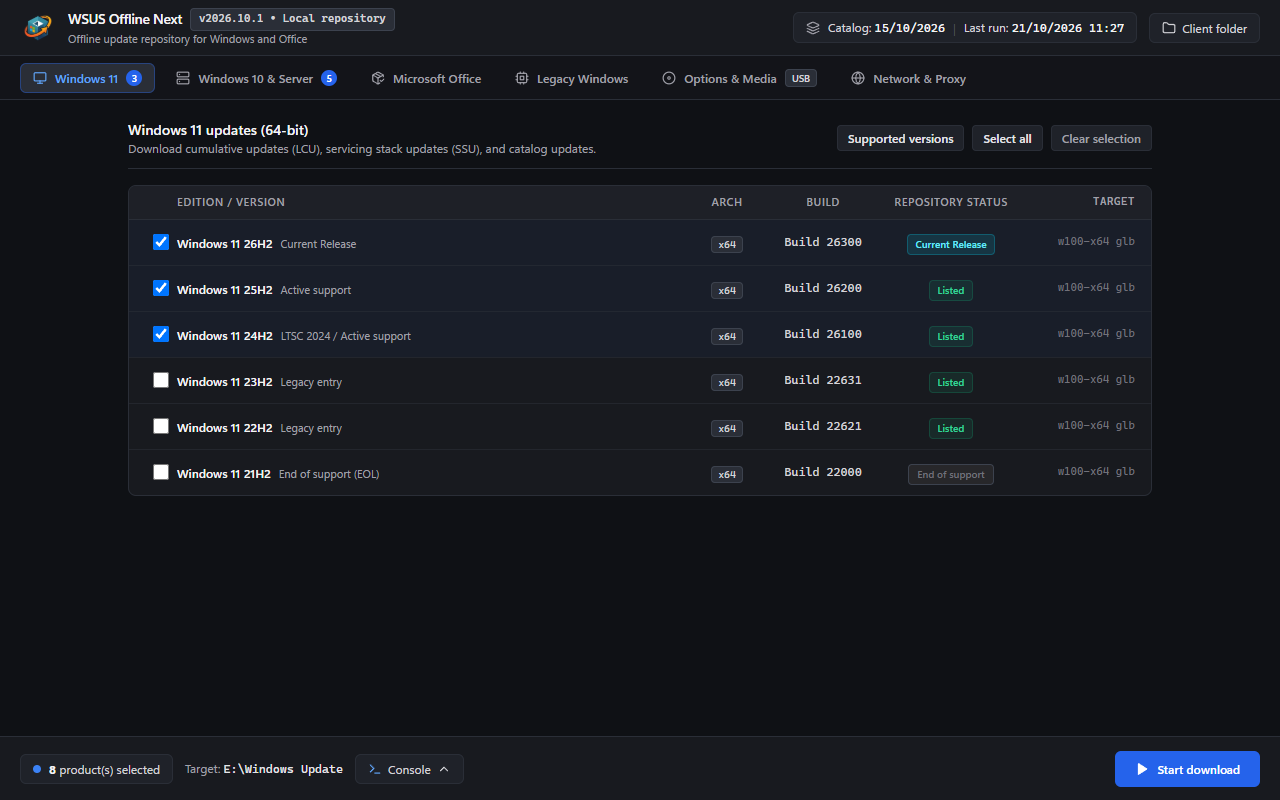
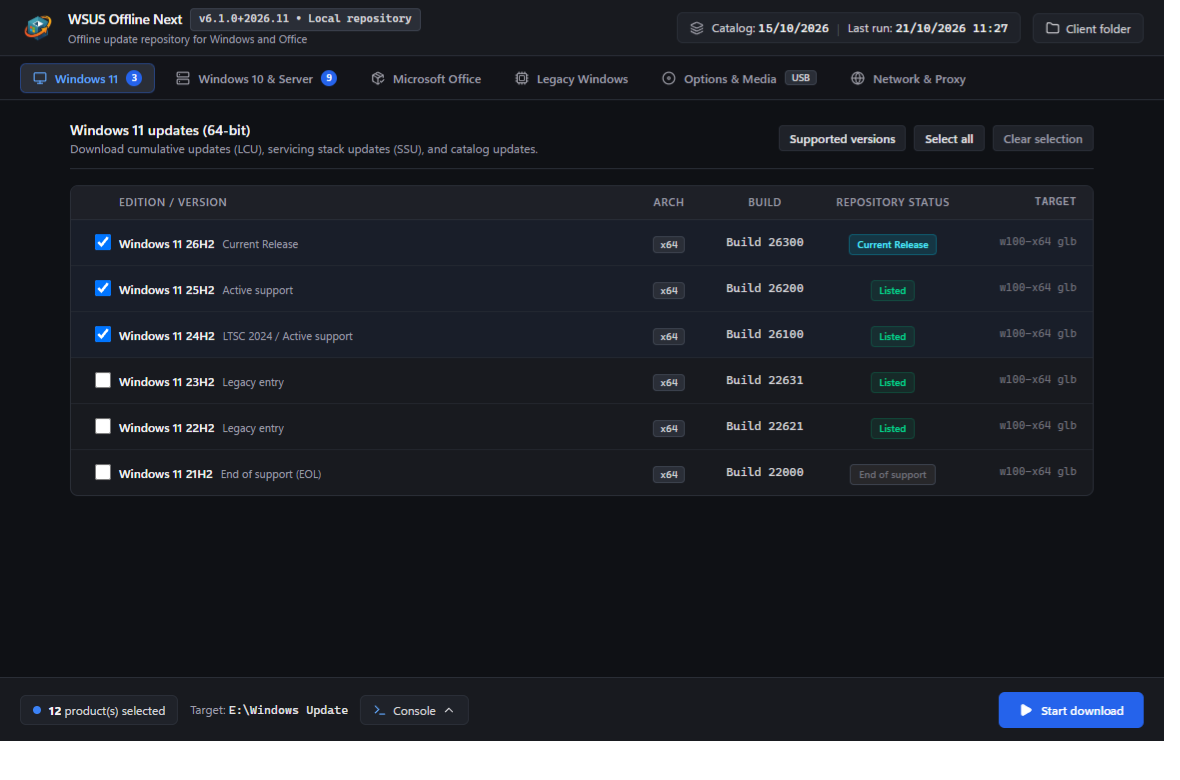
docs(release): 6.1.0 exhaustive release notes + real-application screenshots
- RELEASE_NOTES.md: the full 6.1.0 section (runtime bootstrap, w61 chain,
  XP chain, native installer, generator, static catalogs, quality gates)
  with upgrade guidance; 6.0.4 marked superseded.
- README: lead screenshot replaced with the real Generator 6.1.0
  (PrintWindow capture of the .NET 8 / WebView2 host), new legacy section
  with the native installer captured live on a Windows XP SP3 desktop
  (title bar 6.1.0, pre-Win10 offers gated off), What's-new row for the
  runtime bootstrap.

diff --git a/RELEASE_NOTES.md b/RELEASE_NOTES.md
@@ -2,7 +2,66 @@
 
 [Back to the project](README.md) · [Quick start](README.md#quick-start) · [Support development](https://liberapay.com/Jeremie/) · [LinkedIn](https://www.linkedin.com/in/jeremiedufault)
 
-## 2026.10.1
+## 6.1.0+2026.11
+
+**Status:** current release.
+
+### Offline runtime bootstrap for the modern interface (headline)
+
+- **The client now installs its own runtimes.** The adaptive client launcher gained a fifth capability gate that probes the **.NET 8 Desktop Runtime (x64)** before routing to the modern interface, and a new bootstrap helper (`client\cmd\RuntimeBootstrap.cmd`) that silently installs missing runtimes **from the offline tree itself**: .NET 8 Desktop Runtime (`client\dotnet\windowsdesktop-runtime-8.*-win-x64.exe`) and the Edge WebView2 Runtime (`client\edge\MicrosoftEdgeWebView2RuntimeInstaller*.exe`) — both downloaded by default since 6.0. Old Windows 10 machines that previously failed with "you must install .NET Desktop Runtime" now bootstrap inside the launcher's single UAC prompt and land on the modern interface with zero manual steps. Any remaining gap (runtime absent, installer absent, bootstrap failure) routes to the legacy native installer as before — the routing fails safe on every branch. ARM64 hosts probe but never install (the modern host is win-x64).
+- **.NET 8 / .NET 10 detection files added:** the client-side `/updatedotnet5` MSI-detection path now carries the full `StaticUpdateIds-MSIProducts-dotNET8_*` and `dotNET10_*` old/new detection sets (24 files, harvested from winget manifests and live registry), so machines with .NET 8/10 installed are detected and the runtimes install from the tree when missing. The `_documented` provenance variants are excluded from release trees.
+- The WebView2 gate now also bootstraps: below-floor or absent WebView2 with the offline installer present installs and re-probes before falling back to Legacy.
+
+### Windows 7 (w61) update chain restored
+
+- **IE11 upgrade flow restored** for Windows 7: w61 XSLT extraction re-registered on the generator, IE11 targets and the dedicated install section back on the client engine.
+- **SHA-2 code signing pair** (KB4474419 + KB4490628) installs on w61 before the offline scan, unlocking SHA-2-signed catalogs on stock SP1.
+- **WUA-SHA2 bootstrap:** when the Windows Update Agent cannot read SHA-2 catalogs, the engine installs the servicing-stack update plus the final cumulative LCU to refresh the agent. The refresh uses **KB4534314** (last public security-only update, WUA 24542) instead of the ESU rollups that CBS rolls back on unlicensed machines (0x80004002); the w61 x64/x86 static lists carry it.
+- **Mandatory reboot after the SHA-2 pair lands**, with local `%TEMP%` copies before both dism `Add-Package` call sites (media-lock safe).
+- **The offline scan fails loudly** — a failed scan reports the error instead of the silent "0 missing updates" that masked broken chains.
+- **Identities with files missing from the medium are skipped** (aligned with the generator's superseded-exclusion list), and the `%LIST_MODE_IDS%` argument-shift is quoted away. A full Win7 run now ends in **one pass, no reboot**, with honest skip warnings.
+- **The endless recall loop is gone:** `WOU_ENDLESS` is armed on every OS (w61/wxp included) and a no-progress guard turns "same file list twice inside the recall" into an explicit error instead of a 101-pass, 12-hour loop.
+
+### Windows XP (wxp) chain validated
+
+- XP update identity lists (`StaticUpdateIds-wxp.txt`, `-seconly`) and the XP x86 download list refresh land after a validated real run on an XP SP3 VM: IE6 → IE8 plus 11 updates installed, zero failures.
+- **XP Winlogon restore fixed:** XP's `reg.exe` has no `IMPORT` (Vista+), so the pre-recall Winlogon backup was deleted without ever being restored, leaving a dead autologon and a password prompt after every run. The backup is now re-imported silently via `regedit.exe /s` (present on XP, harmlessly redundant on Vista+). Post-run Winlogon equals pre-run state.
+
+### Native installer (classic GUI)
+
+- Network script directories: share-root fallback, WNet star-device resolution replaced by client-side free-letter selection — the invalid WNet star device no longer breaks the GUI at startup on UNC-hosted media.
+- Edge/WebView2 install offers are gated off on pre-Win10 systems where they cannot apply.
+- Audit-report snapshotting (candidate paths + report copies around runs), resume-path and engine-spine updates, and 98 lines of contract-test coverage for the new behavior.
+
+### Generator (modern + bash)
+
+- Windows 10 **x86 rows enabled by default** (17763/14393/10240) plus 10240 x64 — x64/x86 build parity across all nine Windows 10 rows, with truthful EOL badges.
+- Windows 8.1 / Server 2012 R2 legacy rows are labeled correctly (w63 no longer mislabeled).
+- `SaveIniFiles` now emits `sh/windows-10-versions.ini` so the **bash pipeline mirrors the GUI's w100 build selection** (Win11 keys included; the runtime file stays out of release trees).
+
+### Static catalogs & self-update
+
+- **Edge Enterprise MSI links restored:** the monthly link-refresh bot had emptied `static/StaticDownloadLinks-edge-*` (it removes expired URLs and ADD is disabled), breaking the modern-extras battery since 2026-10-29. The lists carry the current Stable 157.0.4341.42 Enterprise MSI URLs resolved from the official edgeupdates feed.
+- The self-update updater's csproj is re-aligned onto the version matrix — the bump gate's 25-site/15-file invariant holds again (its absence made every version bump exit 1 with a 22-site count).
+
+### Quality gates
+
+- The WebView2 battery gains section f: runtime-bootstrap helper pins, Gate 5 wiring, and three can-fail controls that seed their own mutations.
+- The modern-extras suite checks the new detection files end to end.
+- The native hygiene battery's version pin now tracks the `WSUSOFFLINE_VERSION` core (the frozen 5.2.0 pin predated the native VersionInfo joining the bump matrix and could never pass on any 6.x build).
+- The strings gate is line-ending agnostic (a CRLF checkout silently dropped the final record: 64 ids vs 63 records on a valid unit).
+- Spine, units, compare-versions, selfupdate-cycle/updater, webview2, modern-extras and bump-version batteries all green on the release tree.
+
+### Screenshots
+
+- README screenshots refreshed against real applications: the native legacy installer captured live on Windows XP, and the modern Generator 6.1.0 captured from the .NET 8 / WebView2 host.
+
+### Requirements and upgrade guidance
+
+- Same requirements as 6.0: the modern interfaces need the .NET 8 Desktop Runtime (x64) and WebView2 — which the client tree now installs itself (see the headline above); script-based use is unchanged.
+- Media generated with this release bootstraps its own runtimes offline; older media keeps working with the legacy interface.
+
+## 6.0.4+2026.11
 
 **Status:** current release.
 
@@ -191,7 +250,7 @@ Thanks to Torsten Wittrock and the WSUS Offline Update Community Edition contrib
 
 ## 6.0.4+2026.11
 
-**Status:** current release.
+**Status:** superseded by 6.1.0+2026.11.
 
 ### Monthly update refresh
 

diff --git a/README.md b/README.md
@@ -20,7 +20,7 @@ Download Windows and Office updates on a connected computer, prepare reusable up
 
 ![English Generator interface showing Windows 11 build selection](doc/screenshots/generator-win11.png)
 
-*Generator browser preview. Repository dates and machine information shown in the screenshots are illustrative; they are not evidence of a completed download or installation.*
+*Generator 6.1.0 running on Windows 11. Repository dates and machine information shown are the host's real state; they are not evidence of a completed download or installation.*
 
 </div>
 
@@ -33,6 +33,7 @@ The familiar **Generator → client media → Installer** workflow continues, wi
 
 | Improvement | What it brings |
 | :--- | :--- |
+| **Offline runtime bootstrap (6.1.0)** | The client launcher probes the .NET 8 Desktop Runtime and silently installs it (and WebView2) from the offline tree inside its single UAC prompt — old Windows 10 machines reach the modern interface with zero manual steps, failing safe to the legacy installer. |
 | **AutoIt-free distribution (6.0.0)** | Zero interpreter-stub binaries: launchers are plain `.cmd` scripts, the generator is a .NET 8 single-file host, and the client installer GUI is a native Free Pascal/Lazarus Win32 application — validated live on Windows 7 SP1 x86 and shipping clean on VirusTotal (0-malicious on the native pair). |
 | **Modern desktop apps** | English interfaces, compact product tables, bulk selection, and integrated timestamped consoles. React and TypeScript run inside .NET 8 / WebView2 hosts. |
 | **Recent Windows servicing** | A shared build registry, enablement-package eligibility checks, and checkpoint-first ordering for cumulative updates on the 26100 servicing branch. |
@@ -45,7 +46,13 @@ The application version is **6.1.0+2026.11**. Read the [release notes](RELEASE_N
 
 ## Screenshots
 
-These captures show the actual English frontend at **1280 × 840**, rendered as browser previews. Consoles are idle; no download, installation, or restart was performed to produce them.
+The Generator capture is the real .NET 8 / WebView2 application; the legacy capture is the native Win32 installer running live on Windows XP. The remaining interface captures are browser previews at **1280 × 840**. Consoles are idle; no download, installation, or restart was performed to produce them.
+
+### The legacy installer on Windows XP
+
+The native Win32 installer on a real XP SP3 desktop, version-stamped 6.1.0 in the title bar. Offers that cannot apply on pre-Win10 systems (Edge, WebView2, Office) are gated off in the interface — exactly as shipped.
+
+![English native installer running on Windows XP SP3 with pre-Win10 offers gated off](doc/screenshots/installer-legacy-xp.png)
 
 ### Prepare Office media
 
